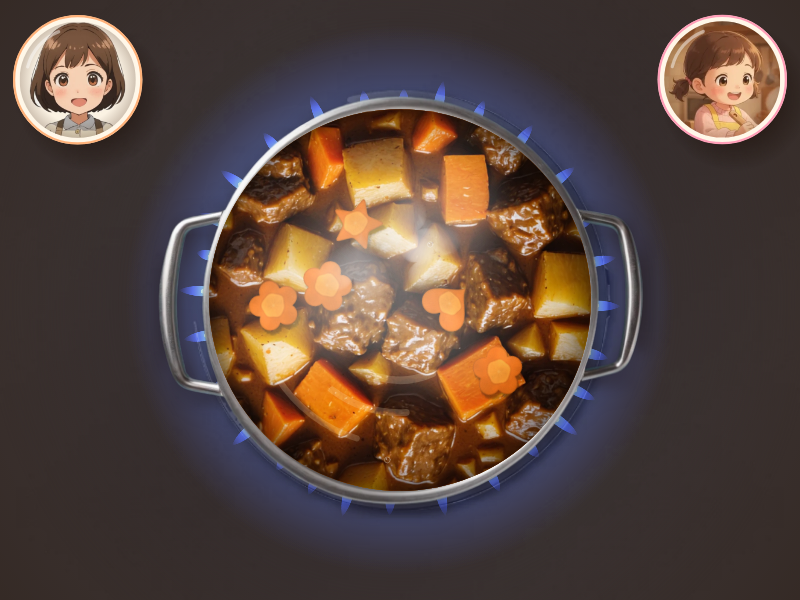
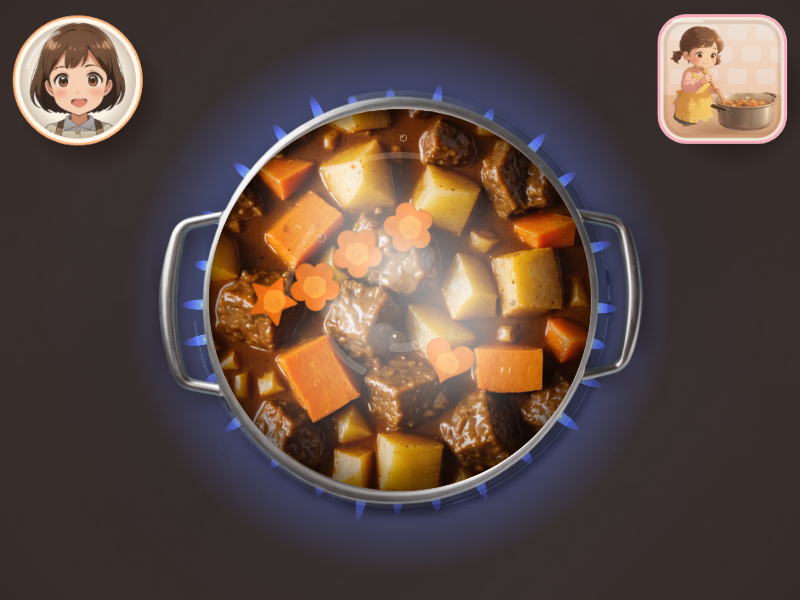
wip: 261124-41 縦横どちらでも配置が崩れないよう女の子の窓の拡大を余白の範囲に限定、サムネイル更新
Claude-Session: https://claude.ai/code/session_017tygc1cGfBW8vhP7iyjzsw

diff --git a/games/261124-41/js/layout.js b/games/261124-41/js/layout.js
@@ -59,9 +59,12 @@ export function frame(prim, items = [], o = {}) {
   }
   // vertical: bubbles in the top band, primary below, secondaries in a row under it
   const d = Math.max(mb, Math.min(want, (E.w - 3 * M) / 2.2));
-  const dg = o.chef ? Math.max(d, Math.min(d * 1.25, E.w - 4 * M - d)) : d;
-  const topBand = dg + 2 * M;
   const needRow = n ? minSec + 2 * M : 0;
+  // o.chef: the girl's window grows (up to 1.25x) only into height nobody else needs
+  const k0 = Math.min(1, (E.w - 2 * M) / prim.w);
+  const spare = E.h - (d + 2 * M) - prim.h * k0 - needRow;
+  const dg = o.chef ? d + Math.max(0, Math.min(d * 0.25, E.w - 4 * M - 2 * d, spare)) : d;
+  const topBand = dg + 2 * M;
   let k = Math.min(1, (E.w - 2 * M) / prim.w);
   if (E.h - topBand - prim.h * k < needRow) k = Math.max(o.minK ?? 0.6, (E.h - topBand - needRow) / prim.h);
   const hh = prim.h * k;

diff --git a/CLAUDE.md b/CLAUDE.md
@@ -11,6 +11,7 @@
 
 ## games/261124-41「おてつだいカレー」
 - `js/engine.js` 単位系（短辺=1000）・入力・時計 / `js/layout.js` 主役と脇役と顔ワイプの配置 / `js/fx.js` 影・湯気・ヒント / `js/bubbles.js` 顔ワイプ / `js/potview.js` 鍋とカレーへの変化 / `js/scenes/*.js` 場面ごと / `js/audio.js` 合成効果音とBGM。
+- 主人公の女の子は `js/chef.js`（`assets/sprite-girl/` の鍋つき全身スプライト100コマ・12fps）。タイトル・鍋・ルーの場面では顔ワイプの代わりに角丸の窓で全身を出す（`bubbles.girl.useChef`）。具材の投入コマ（にんじん30・じゃがいも47・たまねぎ64）は上から見た鍋への1個目の着地に合わせ、ルーでは指で混ぜる勢いで混ぜる速さが変わる。触ると笑う。
 - 画像は `assets/*.webp`、寸法と当たり位置は `assets/manifest.json`。
 - 確認用: `?scene=<title|home|wash|cut|stamp|pot|roux|serve|eat|end>`、`?mute=1`、`?novideo=1`、`window.__game`。
 
